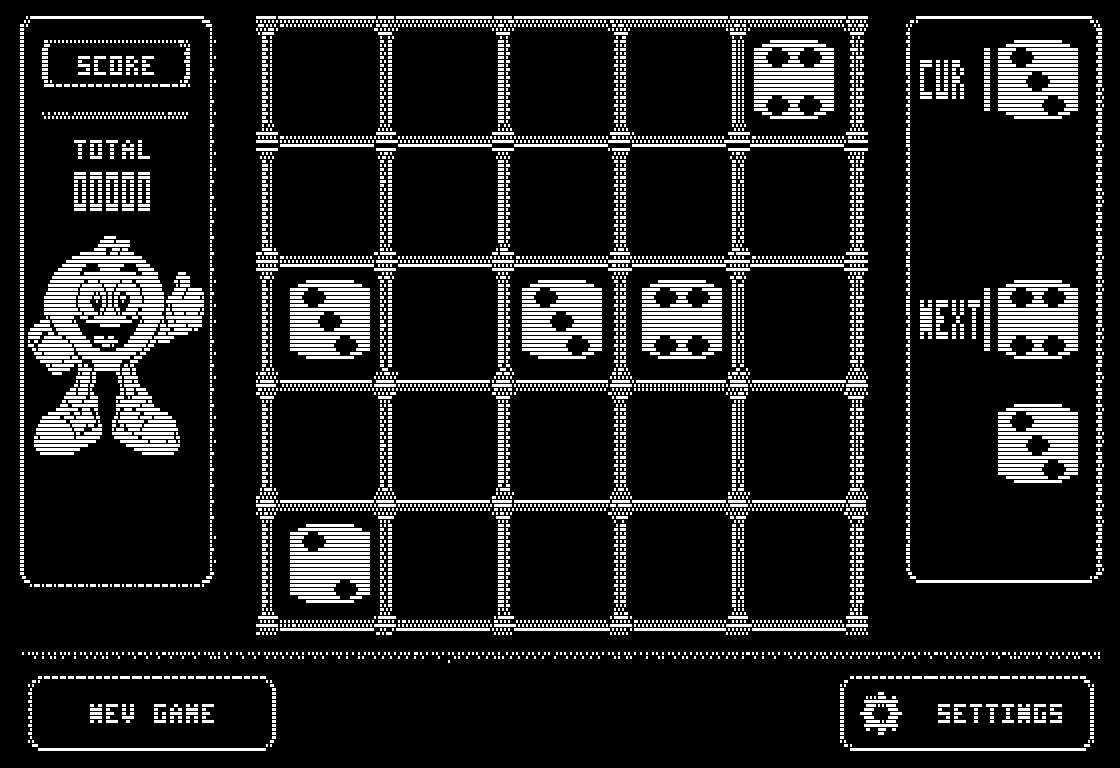
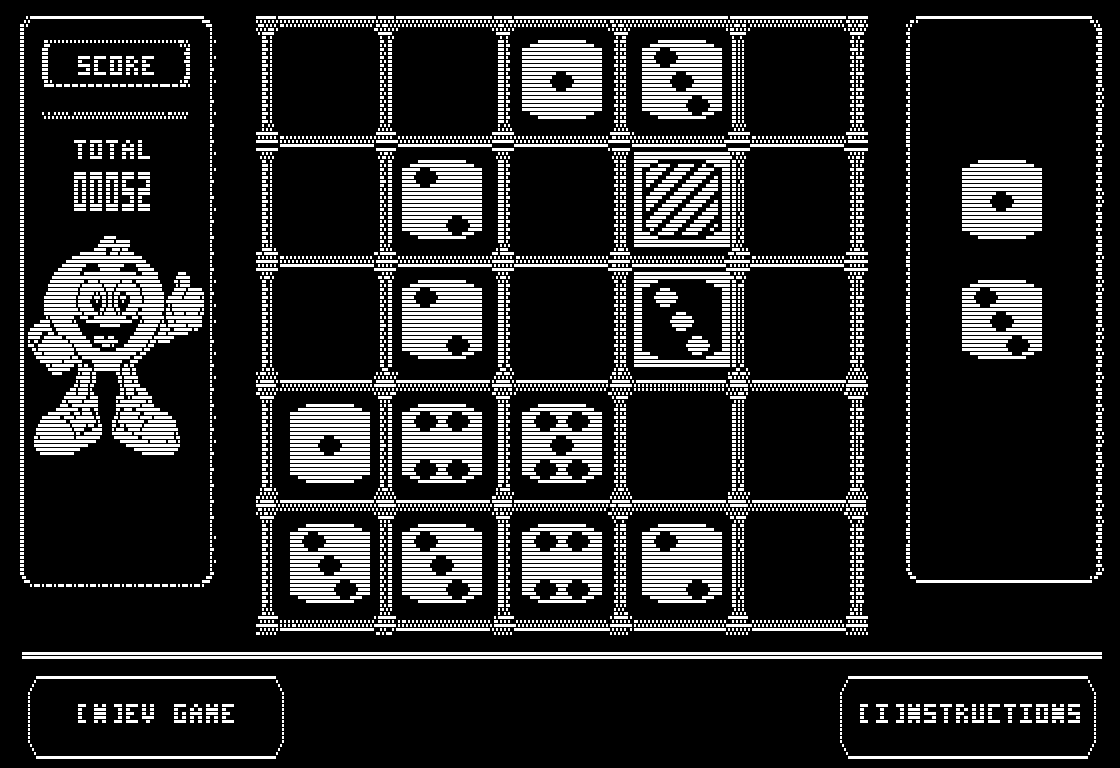
Enhance merge ripples and Apple II docs

diff --git a/apple2/src/main.c b/apple2/src/main.c
@@ -178,6 +178,8 @@ static const signed char firework_center_y[9] = {0, -7, -12, -15, -12, -5, 5, 18
 
 static const signed char orient_dx[4] = {1, 0, -1, 0};
 static const signed char orient_dy[4] = {0, 1, 0, -1};
+static const signed char ripple_diagonal_dx[4] = {-1, 1, -1, 1};
+static const signed char ripple_diagonal_dy[4] = {-1, -1, 1, 1};
 static unsigned char flood_seen[BOARD_CELLS];
 static unsigned char flood_list[BOARD_CELLS];
 
@@ -1135,10 +1137,53 @@ static void wait_merge_flash(void) {
 #endif
 }
 
-static void toggle_ripple_step(
+static void toggle_diagonal_ripple_step(
     unsigned char merge_x,
     unsigned char merge_y,
     unsigned char step
+) {
+    unsigned char direction;
+    unsigned char moved;
+    unsigned char retreat;
+    signed char x;
+    signed char y;
+    signed char next_x;
+    signed char next_y;
+
+    for (direction = 0; direction < 4; ++direction) {
+        x = (signed char) merge_x;
+        y = (signed char) merge_y;
+        moved = 0;
+        while (moved < BOARD_SIZE - 1u) {
+            next_x = x + ripple_diagonal_dx[direction];
+            next_y = y + ripple_diagonal_dy[direction];
+            if (next_x < 0 || next_x >= BOARD_SIZE
+                || next_y < 0 || next_y >= BOARD_SIZE) {
+                break;
+            }
+            x = next_x;
+            y = next_y;
+            ++moved;
+        }
+
+        retreat = step;
+        while (retreat != 0 && moved != 0) {
+            x -= ripple_diagonal_dx[direction];
+            y -= ripple_diagonal_dy[direction];
+            --retreat;
+            --moved;
+        }
+        if (moved != 0) {
+            invert_dhgr_board_tile((unsigned char) x, (unsigned char) y);
+        }
+    }
+}
+
+static void toggle_ripple_step(
+    unsigned char merge_x,
+    unsigned char merge_y,
+    unsigned char step,
+    unsigned char diagonal
 ) {
     unsigned char left = step < merge_x ? step : merge_x;
     unsigned char right = BOARD_SIZE - 1u - step;
@@ -1159,15 +1204,22 @@ static void toggle_ripple_step(
     if (bottom != top && (bottom != merge_y || !target_in_row)) {
         invert_dhgr_board_tile(merge_x, bottom);
     }
+    if (diagonal) {
+        toggle_diagonal_ripple_step(merge_x, merge_y, step);
+    }
 }
 
-static void run_merge_grid_ripple(unsigned char merge_x, unsigned char merge_y) {
+static void run_merge_grid_ripple(
+    unsigned char merge_x,
+    unsigned char merge_y,
+    unsigned char diagonal
+) {
     unsigned char step;
 
     for (step = 0; step < BOARD_SIZE; ++step) {
-        toggle_ripple_step(merge_x, merge_y, step);
+        toggle_ripple_step(merge_x, merge_y, step, diagonal);
         wait_animation_frames(2);
-        toggle_ripple_step(merge_x, merge_y, step);
+        toggle_ripple_step(merge_x, merge_y, step, diagonal);
     }
     set_double_hires(0);
 }
@@ -1329,7 +1381,11 @@ static void resolve_at(unsigned char x, unsigned char y) {
             if (turn_merge_count >= 5u) {
                 run_merge_grid_shake();
             }
-            run_merge_grid_ripple(merge_effect_x, merge_effect_y);
+            run_merge_grid_ripple(
+                merge_effect_x,
+                merge_effect_y,
+                merge_sound_value >= 5u
+            );
             update_score_display();
             show_merge_flash(merge_effect_index);
         }
@@ -1946,7 +2002,11 @@ static void game_loop(void) {
                 score += merge_effect_demo_index == MERGE_EFFECT_SIXIES
                     ? 68u
                     : (merge_effect_demo_index == MERGE_EFFECT_FIVES ? 15u : 3u);
-                run_merge_grid_ripple(merge_effect_x, merge_effect_y);
+                run_merge_grid_ripple(
+                    merge_effect_x,
+                    merge_effect_y,
+                    merge_effect_demo_index == MERGE_EFFECT_SIXIES
+                );
                 update_score_display();
                 show_merge_flash(merge_effect_demo_index);
                 merge_effect_demo_index = (unsigned char) (

diff --git a/apple2/tests/test_screen_shake.py b/apple2/tests/test_screen_shake.py
@@ -37,6 +37,30 @@ class ScreenShakeTests(unittest.TestCase):
         )
         self.assertIn("turn_merge_count = count == 3u ? value : 1u;", body)
 
+    def test_five_and_six_merges_enable_diagonal_ripple(self) -> None:
+        body = function_body("resolve_at(unsigned char x, unsigned char y)")
+        ripple = body[body.index("run_merge_grid_ripple("):body.index("update_score_display")]
+        self.assertIn("merge_sound_value >= 5u", ripple)
+
+        step = function_body(
+            "toggle_ripple_step(\n"
+            "    unsigned char merge_x,\n"
+            "    unsigned char merge_y,\n"
+            "    unsigned char step,\n"
+            "    unsigned char diagonal\n"
+            ")"
+        )
+        self.assertIn("if (diagonal)", step)
+        self.assertIn("toggle_diagonal_ripple_step(merge_x, merge_y, step);", step)
+        self.assertIn(
+            "static const signed char ripple_diagonal_dx[4] = {-1, 1, -1, 1};",
+            SOURCE,
+        )
+        self.assertIn(
+            "static const signed char ripple_diagonal_dy[4] = {-1, -1, 1, 1};",
+            SOURCE,
+        )
+
     def test_shake_sequence_restores_original_position(self) -> None:
         body = re.search(
             r"\.proc _run_merge_grid_shake(?P<body>.*?)\.endproc",

diff --git a/apple2/tests/test_sequential_merges.py b/apple2/tests/test_sequential_merges.py
@@ -25,7 +25,7 @@ class SequentialMergeTests(unittest.TestCase):
         snapshot = body.index("memcpy(placement_board_before, board, sizeof(board));")
         merge = body.index("merge_at(x, y)")
         redraw = body.index("redraw_board_changes();")
-        ripple = body.index("run_merge_grid_ripple(merge_effect_x, merge_effect_y);")
+        ripple = body.index("run_merge_grid_ripple(")
         score = body.index("update_score_display();")
         callout = body.index("show_merge_flash(merge_effect_index);")
         self.assertLess(snapshot, merge)

diff --git a/apple2/README.md b/apple2/README.md
@@ -4,28 +4,40 @@ SIXIES is a native Apple II port of the repository's C64 dice-merging puzzle gam
 
 The port is written in C and 6502 assembly with cc65. Its Studio313 presentation card, title, board, dice, mascot, score display, merge fireworks, and comic callouts use monochrome Apple II double-hi-resolution graphics. Generated binaries and downloaded tools are intentionally excluded from Git; the documented build recreates the complete bootable disk from source.
 
+## Screenshots
+
+### Gameplay
+
 ![SIXIES gameplay on an enhanced Apple IIe](docs/images/sixies-gameplay.png)
 
-*Current gameplay captured directly from izapple2's emulated framebuffer.*
+*Current gameplay captured directly from izapple2. The placement die is shown with collision hatching; `[N]EW GAME` and `[I]NSTRUCTIONS` use matching footer controls.*
+
+### Instructions
+
+![SIXIES instruction screen on an enhanced Apple IIe](docs/images/sixies-instructions.png)
+
+*Press `I` during a game to open this page. Press `Space` to reconstruct and return to the unchanged board.*
 
 ## Apple II Specifications
 
 | Component | Requirement |
 | --- | --- |
-| Machine | Enhanced Apple IIe or compatible emulator |
-| Memory | 128 KB with auxiliary memory |
-| CPU | 6502-compatible; tested with the enhanced Apple IIe model |
-| Display | 80-column-capable DHGR, 560x192 monochrome |
+| Machine | Enhanced Apple IIe or a compatible emulator |
+| CPU | 65C02 at the standard Apple II rate, approximately 1.023 MHz |
+| Memory | 128 KB total: 64 KB main RAM and 64 KB auxiliary RAM |
+| Auxiliary hardware | Extended 80-column memory support required for DHGR |
+| Display | Double-hi-resolution, 560x192 one-bit monochrome |
 | Video page | DHGR Page 1 in main and auxiliary RAM |
-| Storage | Bootable ProDOS-order `.po` disk image |
+| Storage | One 140 KB ProDOS-order `.po` disk image in drive 1 |
 | Operating system | ProDOS 2.4.3 disk template |
 | Input | Apple II keyboard |
+| Sound | Built-in one-bit Apple II speaker; no Mockingboard required |
 | Source language | C and 6502 assembly, compiled by cc65 |
 | Program address | Exomizer SFX at `$080D`; game unpacked to `$4000`, with high memory limited to `$BF00` |
 | Software stack | `$0300` bytes |
 | Language card | Merge sprite and score rendering code at `$D400` |
 
-The supplied launcher uses an enhanced Apple IIe with RGB output and empty slots 2, 3, and 4. The RGB setting displays the one-bit DHGR art as stable black and white rather than composite artifact colors.
+The supplied launcher selects izapple2's enhanced Apple IIe model, which uses a 65C02 and the required auxiliary memory. It enables RGB output and leaves slots 2, 3, and 4 empty. RGB displays the one-bit DHGR art as stable black and white rather than composite artifact colors. A joystick, mouse, Mockingboard, accelerator, and hard disk are not required.
 
 ## Game Features
 
@@ -42,7 +54,7 @@ The supplied launcher uses an enhanced Apple IIe with RGB output and empty slots
 - Only the current placement dice appear centered in the right panel; labels and the next-piece preview are omitted to conserve memory.
 - The mascot and persistent five-digit score appear in the left panel.
 - Multiple merges resolve as separate visual events with an immediate score update for each one.
-- Grid ripples, flashing merged dice, falling star sprites, and comic callouts accompany merges.
+- Horizontal and vertical grid ripples accompany every merge; merges consuming fives or sixes add four simultaneous diagonal arms. Flashing merged dice, falling star sprites, comic callouts, and value-specific sounds complete the effect.
 - Merges of exactly three fives or exactly three sixes shake the grid horizontally.
 - `FIVES` appears when fours merge into a five, and `SIXIES` when fives merge into a six.
 - `AWESOME` is reserved for the second and later generic merges in the same placement turn.
@@ -87,21 +99,30 @@ xcode-select --install
 
 ## Quick Start from GitHub
 
-Clone the repository and run all commands from its root directory:
+The automated path supports macOS on Apple silicon and Intel. Clone the repository and run all commands from its root directory:
 
 ```sh
 git clone https://github.com/SkiltonUSA/Sixies_Development.git
 cd Sixies_Development
 make -C apple2 setup-tools
+make -C apple2 test
 make -C apple2 doctor
 make -C apple2 run
 ```
 
-`setup-tools` installs or downloads the development environment. `doctor` builds the program and verifies the emulator configuration. `run` creates the disk image, refreshes the emulator working copy while preserving its saved high scores, and boots SIXIES.
+`setup-tools` installs or downloads the development environment. `test` verifies the asset converters and gameplay source contracts. `doctor` builds the assets and release disk and verifies the emulator configuration. `run` refreshes the emulator working copy while preserving its saved high scores, then boots SIXIES.
+
+To play:
+
+1. Wait for the attract sequence, or press `Space`, `Return`, or `N` to start immediately.
+2. Move with the arrow keys or `W`, `A`, `S`, and `D`; rotate paired dice with `E` or `Q`.
+3. Place dice with `Space` or `Return`.
+4. Press `I` to read the instructions during play, then press `Space` to return to the same game.
+5. Close the izapple2 window or press `Command-Q` when finished. High scores saved to the emulator disk are retained on the next `make -C apple2 run`.
 
 Windows and Linux setup is not currently automated. On those hosts, install cc65, Exomizer 3.1.2, Python 3 with Pillow, Java, AppleCommander, a ProDOS disk template, and a compatible Apple II emulator manually before using the Makefile as a reference.
 
-## Installed Tools
+## Development Tools
 
 The setup script keeps downloaded dependencies under the ignored `.tools/` directory so they do not modify the repository or need to be committed.
 
@@ -117,6 +138,31 @@ The setup script keeps downloaded dependencies under the ignored `.tools/` direc
 | OpenJDK | Homebrew when absent | Run AppleCommander |
 
 izapple2 and the ProDOS template are checksum-verified by `scripts/setup-tools.sh`. AppleCommander is downloaded from its current GitHub release.
+
+## Python Asset Pipeline
+
+All Python tools run through `.tools/apple2-venv/bin/python`; Pillow is their only third-party Python dependency. `make -C apple2 assets` runs the production generators in dependency order and writes disposable output under `apple2/build/`. Source artwork remains under `apple2/assets/` or the repository's shared `src/assets/` directory.
+
+| Script | Build responsibility |
+| --- | --- |
+| `import_a2fm_asset.py` | Splits b2d `.a2fm` files into validated 8 KB auxiliary and main DHGR banks and creates monochrome previews. |
+| `import_a2fm_grid.py` | Imports the supplied gameplay grid, clears dynamic regions, adds the mascot and matching footer controls, validates all 25 die interiors, and emits `GRID.A2FM`. |
+| `generate_hgr_dice.py` | Converts the six source dice into phase-correct fixed-position DHGR blits, collision hatching, edge-restore data, and generated C geometry. |
+| `generate_title.py` | Adds the start prompt to the supplied title A2FM page without changing the title artwork. |
+| `generate_presents.py` | Converts and RLE-packs the monochrome Studio313 presentation screen. |
+| `generate_instructions.py` | Pre-renders the complete DHGR rules and controls page, including the in-game `I` and `Space` flow. |
+| `generate_game_over.py` | Converts the supplied mascot artwork into the monochrome RLE game-over page. |
+| `generate_high_score_screen.py` | Builds the high-score background, mascot/dice art, and the disk-backed DHGR font used for live score rows. |
+| `generate_high_scores.py` | Creates the checksummed 56-byte default ten-entry `HISCORE` data file. |
+| `generate_merge_effects.py` | Converts the ten exclamation masters and star artwork into compact opaque/XOR DHGR fragments. |
+| `generate_score_digits.py` | Emits fixed-position auxiliary/main score masks as a ca65 include, removing runtime font calculations. |
+| `generate_footer_prompt.py` | Emits the XOR masks and HGR row addresses for `ARE YOU SURE [Y/N]?`. |
+| `pack_dhgr_banks.py` | RLE-packs existing auxiliary/main DHGR banks for the streaming screen loader. |
+| `crunch_apple2_binary.py` | Converts the cc65 AppleSingle output for Exomizer 3.1.2, verifies a complete decrunch round trip, and emits the ProDOS-loadable SFX payload. |
+| `convert_dhgr_asset.py` / `convert_hgr_asset.py` | Standalone conversion utilities for importing and previewing additional DHGR or HGR artwork. |
+| `generate_hgr_grid.py` | Retained HGR grid-conversion reference and geometry test utility; the production grid uses `import_a2fm_grid.py`. |
+
+The shell scripts complete the host workflow: `setup-tools.sh` installs dependencies, `package_disk.sh` copies the executable and generated assets onto the ProDOS image, and `run-emulator.sh` maintains the writable emulator disk and launches izapple2.
 
 ## Build Commands
 
@@ -151,7 +197,13 @@ The disk contains `SIXIES.SYSTEM`, the crunched `SIXIES` ProDOS BIN, compressed 
 
 ## Emulator
 
-`make -C apple2 run` launches the workspace copy of izapple2 with the equivalent configuration:
+The recommended launch command is:
+
+```sh
+make -C apple2 run
+```
+
+It builds `apple2/build/sixies.po`, copies it to the writable `apple2/build/emulator/sixies-run.po`, restores the previous emulator disk's `HISCORE` file, and launches izapple2 with this equivalent configuration:
 
 ```sh
 .tools/izapple2/izapple2 \
@@ -160,12 +212,18 @@ The disk contains `SIXIES.SYSTEM`, the crunched `SIXIES` ProDOS BIN, compressed 
   -s2=empty \
   -s3=empty \
   -s4=empty \
-  apple2/build/sixies.po
+  apple2/build/emulator/sixies-run.po
 ```
 
-The launcher first copies the packaged disk to `apple2/build/emulator/sixies-run.po`. Emulator writes therefore do not modify `apple2/build/sixies.po`; before refreshing that working copy on a later run, the launcher extracts and restores its `HISCORE` file.
+Emulator writes therefore do not modify the clean release image. Before refreshing the working copy on a later run, the launcher extracts and restores its high-score file.
 
-To use another Apple II emulator, configure an enhanced Apple IIe with 128 KB RAM, auxiliary memory, 80-column/DHGR support, and the `.po` image in drive 1. RGB or monochrome output is recommended. Boot the disk and run `SIXIES.SYSTEM` if the emulator does not launch it automatically.
+To use another Apple II emulator:
+
+1. Select an enhanced Apple IIe with a 65C02 and 128 KB RAM.
+2. Enable the extended 80-column/auxiliary-memory hardware and DHGR support.
+3. Insert `apple2/build/sixies.po` into drive 1 and boot it as a ProDOS-order disk.
+4. Choose RGB or monochrome output for stable black-and-white graphics.
+5. Run `SIXIES.SYSTEM` if the emulator does not execute the startup file automatically.
 
 izapple2 shortcuts used during development:
 

diff --git a/apple2/docs/apple2-implementation-notes.md b/apple2/docs/apple2-implementation-notes.md
@@ -90,6 +90,7 @@
 - A successful merge chooses one callout and places its opaque rectangle in the screen quadrant opposite the merged cell. Horizontal and vertical sides are both inverted, guaranteeing that even a center-column merge is never covered. Before drawing it, a language-card routine saves the 1,920-byte background rectangle in unused auxiliary HGR Page 2. After 24 vertical blanks, a direct assembly copy restores both planes; no grid file reads or C-level die redraws occur while the display is live.
 - `FIVES` is reserved for merges that consume face value 4 and create a five; `SIXIES` is reserved for merges that consume face value 5 and create a six. `AWESOME` is excluded from the first-merge random pool and identifies second-and-later generic merges within the same placement turn. Named five/six creation takes priority over `AWESOME` during a chain.
 - Before the callout, the Apple II reproduces the C64 merge cross: four inverted 24x24 cell interiors travel along the destination row and column from the grid edges, clamp at the merged cell over five steps, and hold for two VBL frames per step. Duplicate cells at the destination are inverted only once, and a second XOR pass restores every underlying die and grid pixel exactly.
+- Merges consuming face value 5 or 6 add four diagonal arms during those same five ripple steps. The diagonal walker stops before XOR-inverting the destination because the horizontal/vertical cross already owns that cell, so overlapping paths cannot cancel the merged-die flash and the enhancement adds no animation frames.
 - Merges containing exactly three fives or exactly three sixes shake without Page 2 buffering. Compact language-card assembly circularly rotates the grid's 22-byte horizontal window across the 120 generated board-interior scanlines; the sequence moves right, crosses to left, and returns to center twice. Opposite rotations restore every byte exactly, while horizontal separators, score, mascot, and current/next side panels remain fixed.
 - When the cross reaches its destination, a DHGR conversion of the C64 four-point firework sprite ignites over the resolved die. Three particles follow the original nine-frame side and center trajectories: they rise, spread 16 pixels to each side, reverse, and finish 32 scanlines below the merge before the callout appears.
 - `MERGESTAR` stores seven signal-aligned phases of the sprite's 11 active rows in 616 bytes. A language-card XOR blitter at `$D400` draws and erases the particles at arbitrary DHGR coordinates, preserving every underlying die and grid signal without a save-under buffer.
